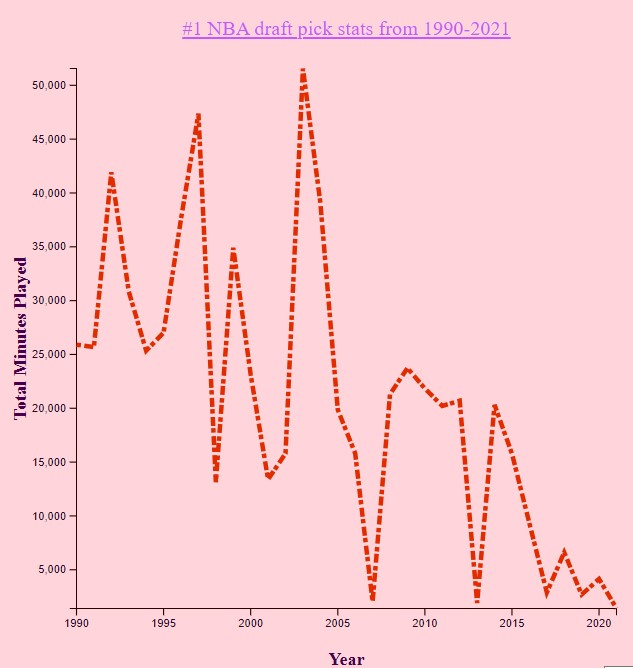
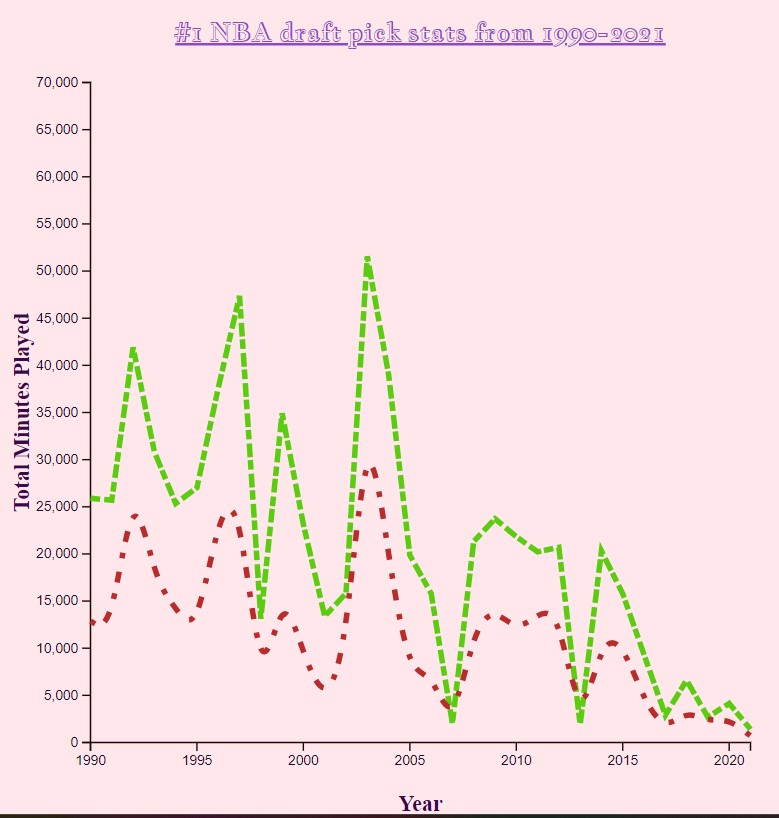
updated readme and picture

diff --git a/Week-7-Drawing-Data/Week-7-HW/Readme.md b/Week-7-Drawing-Data/Week-7-HW/Readme.md
@@ -12,8 +12,11 @@
 5. Parsed draft year
 
 ### Drawing
-- Tried to create a group for the lines but did not know how to create new set of lines - tried a x1, y1, but did not work
-- I had wanted to label lebron's total minutes played in 2023 (51563), the most of any #1 pick. 
+- Was able to create the second line - had a spelling mistake while formatting the data
+- Wanted to draw a line that pointed to the line peak but was unsuccessful
+
+### Chart
+Graph shows the total minutes played (green) and total points scored (burgundy) for the #1 NBA draft picks, from 1990-2021. Lebron James, drafted in 2003, leads in both categories at 51,563 minutes & 36,559 points scored, respectively.  
 
 
 ![Number 1 NBA pick stats](NBA-stats.jpg)
